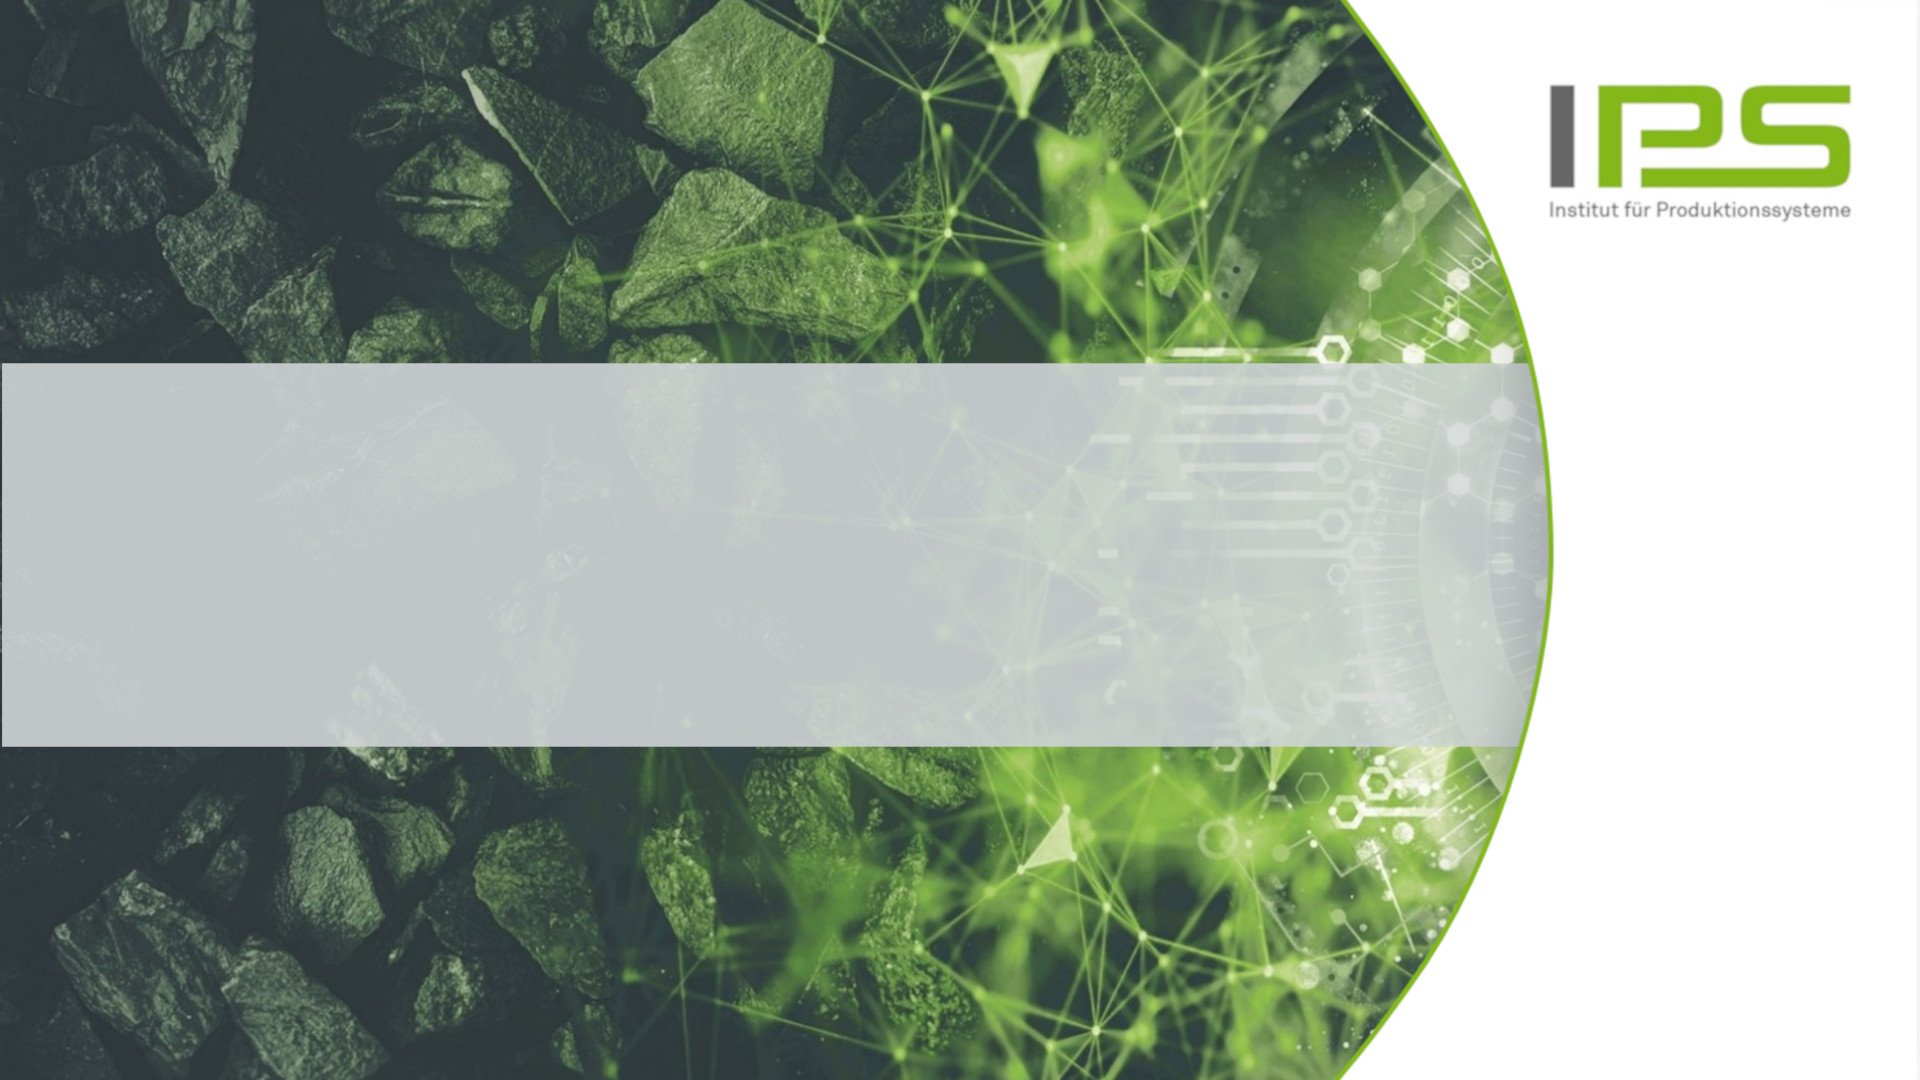
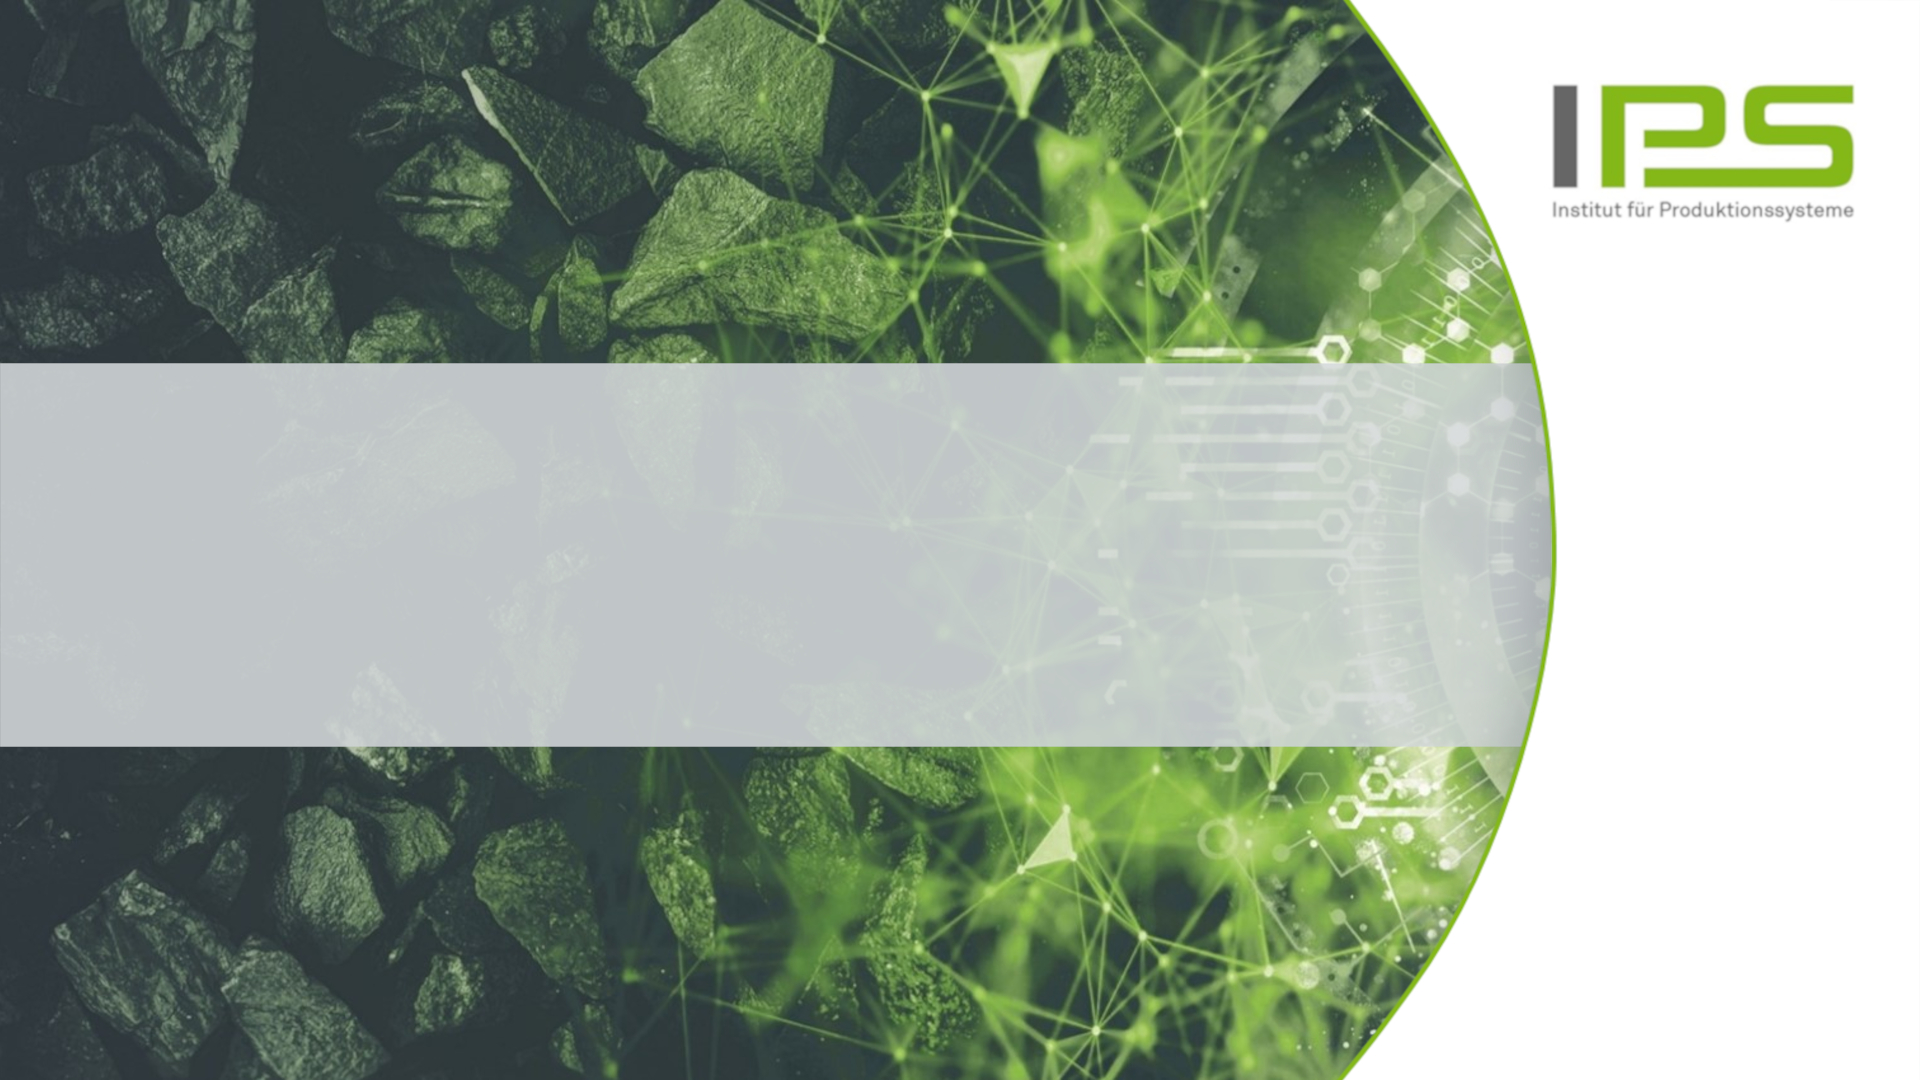
footer added

diff --git a/template/deck.html b/template/deck.html
@@ -52,14 +52,22 @@ $endif$
 $deck-title.html()$
       $endif$      
 $body$
-
     </div>
   </div>
-  $if(watermark)$
-  <div class="watermark">
-    $watermark$
+
+  <div class="watermark" id="watermark" style="width:98%">
+      <div style="display:flex; flex-direction:row; align-items:center; justify-content: space-around; height:fit-content; border-top: solid var(--accent3) medium; padding-top:0.8em; font-size:large;padding-left:1em;padding-right:1em">
+        <div style="justify-self:center">
+          <img src="/support/assets/IPS-Logo_RGB_2023-01.svg" height="40px">
+        </div>
+        <div>
+          Institut für Produktionssysteme | Univ.-Prof. Dr.-Ing. Jochen Deuse 
+        </div>
+        <div style="padding-left:-5em">
+          $date$
+        </div>
+      </div>
   </div>
-  $endif$
 
   <script src="$decker-support-dir$/vendor/videojs/video.min.js"></script>
   <script src="$decker-support-dir$/vendor/chartjs/chart.umd.js"></script>
@@ -81,5 +89,21 @@ $for(template.deck.js-module)$
   <script module src="$template.deck.js$"></script>
 $endfor$
 
+
+<script type="module">
+  import Reveal from './$decker-support-dir$/vendor/reveal/dist/reveal.esm.js';
+  Reveal.on('slidechanged', event => {
+    console.log(event.indexh)
+    if(event.indexh === 0){
+      document.getElementById("watermark").style.display = "none";
+    }else{
+      document.getElementById("watermark").style.display = "block";
+    }
+
+  });
+  Reveal.addEventListener('title', function() {  
+      document.getElementById("watermark").style.display = "none";
+  } );
+</script>
 </body>
 </html>

diff --git a/template/deck-title.html b/template/deck-title.html
@@ -1,4 +1,4 @@
-<section id="title-slide">
+<section id="title-slide" data-state="title">
   <div class="decker">
     <div class="alignment">
       <header class="background-on-accent">
@@ -30,9 +30,6 @@
       $affiliation:affiliation-template.html()$
       $endif$
 
-      $if(date)$
-        <div class="date">$date$</div>
-      $endif$
 
       $if(copyright)$
       $copyright:copyright-template.html()$

diff --git a/support/css/tudo-deck.css b/support/css/tudo-deck.css
@@ -1618,3 +1618,7 @@ html.a11y .reveal a:hover {
   color: var(--accent6-bbg);
   transform: scale(1.05);
 }
+
+.watermark {
+  width: 100%;
+}
